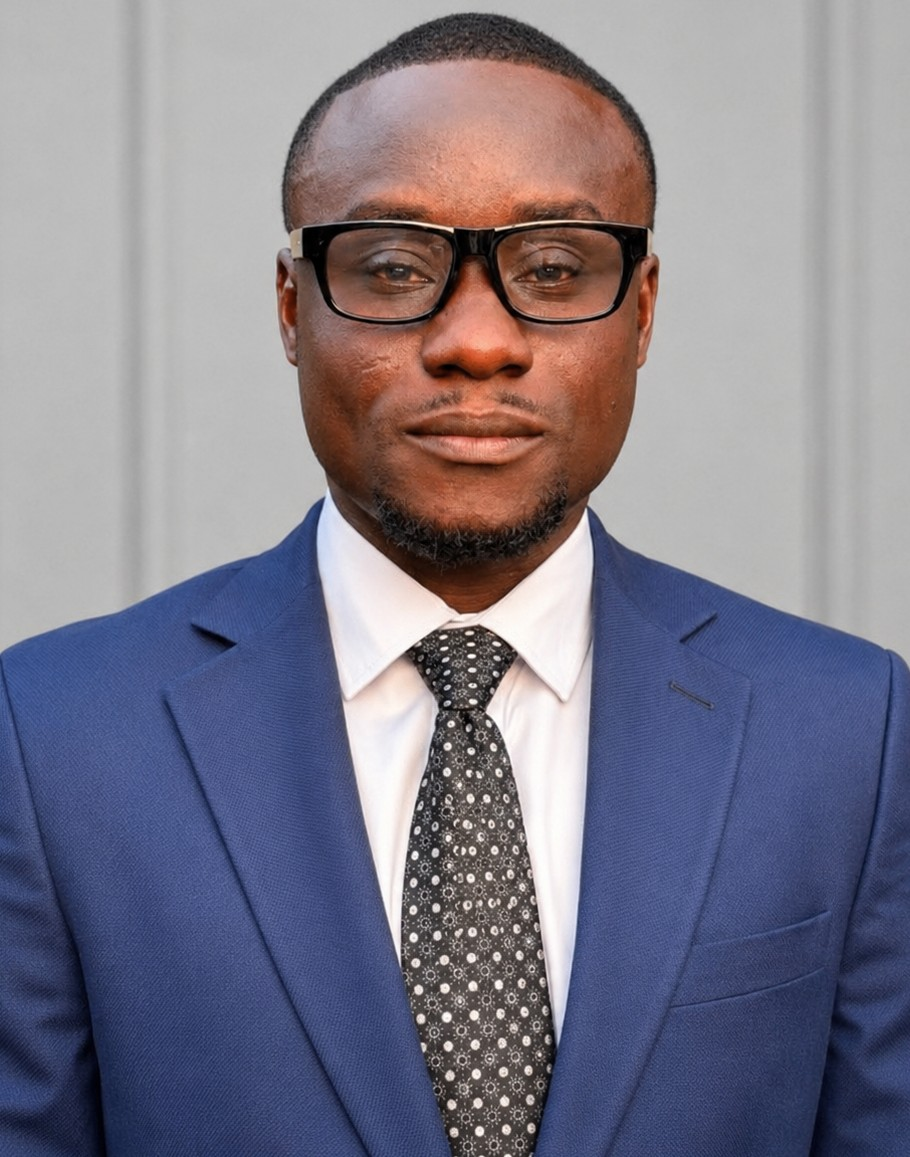
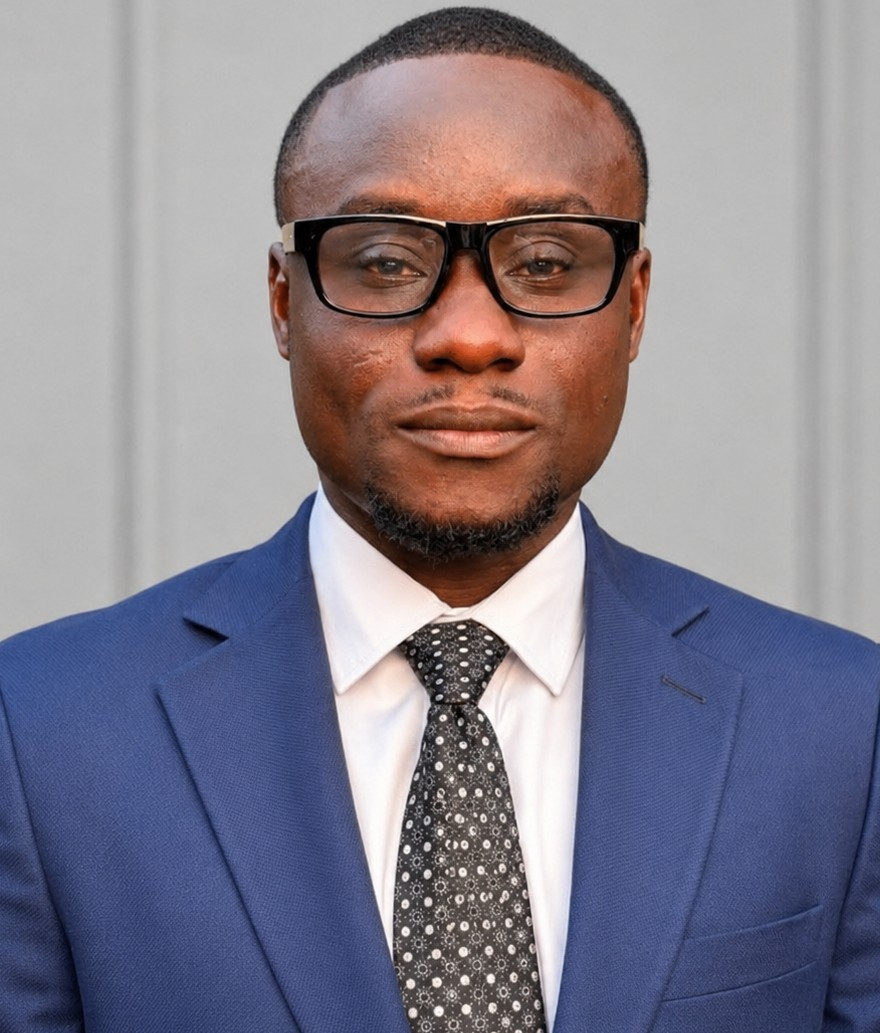
Update Nana founder headshot to bump.png.

diff --git a/index.html b/index.html
@@ -273,7 +273,7 @@
       <p class="team-label" id="founders">Founders</p>
       <div class="founder-grid">
         <article class="person-card">
-          <img class="person-photo" src="assets/founder-nana.jpg?v=13" alt="Nana Safo Duker" width="910" height="1157" loading="lazy" decoding="async">
+          <img class="person-photo" src="assets/founder-nana.jpg?v=14" alt="Nana Safo Duker" width="880" height="1033" loading="lazy" decoding="async">
           <h3>Nana Safo Duker</h3>
           <p class="person-role">Co-Founder &amp; CEO</p>
           <a class="person-link" href="https://nana-safo-duker.github.io/" target="_blank" rel="noopener">Website</a>
